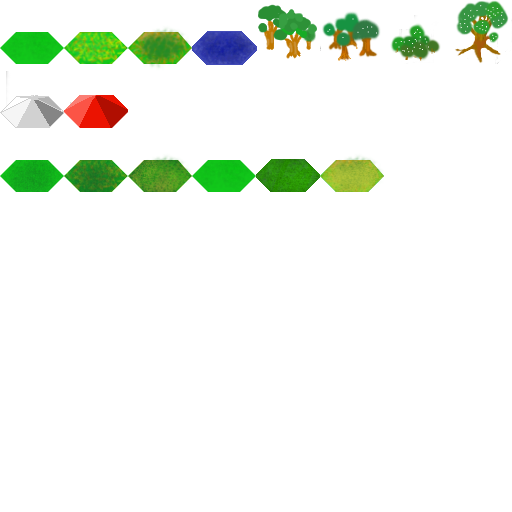
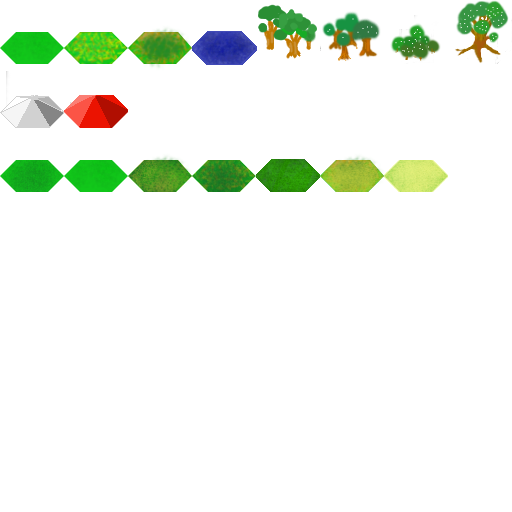
Perlin noise for grid gen

Changed region(s): [[0.75, 0.3125, 0.875, 0.375], [0.375, 0.3125, 0.5, 0.375], [0.125, 0.3125, 0.25, 0.375]]

diff --git a/perlin.cpp b/perlin.cpp
@@ -1,0 +1,131 @@
+#include "perlin.h"
+
+Perlin::Perlin()
+{
+	Init();
+	_Perlin = this;
+}
+
+Perlin * Perlin::thePerlin()  
+{ 
+    if(_Perlin == NULL)
+        new Perlin();
+
+    return _Perlin; 
+}
+
+Perlin * Perlin::_Perlin = NULL;
+
+void Perlin::Init()
+{
+	InitGradients();
+	InitPermutationTable();
+}
+
+Perlin::~Perlin()
+{
+	if(RandomGradients != NULL)		delete RandomGradients;
+	if(PermutationTable != NULL)	delete PermutationTable;
+
+	RandomGradients		= NULL;
+	PermutationTable	= NULL;
+}
+
+void Perlin::InitGradients()
+{
+	if(RandomGradients != NULL) delete RandomGradients;
+
+    RandomGradients = new std::vector<glm::mediump_vec3>(PERLIN_NUM_GRADIENTS);
+
+	for(int i=0; i<PERLIN_NUM_GRADIENTS; i++)
+	{
+        glm::vec3 P = randvec3(-1.0f, 1.0f);
+		
+        while(glm::length(P) > 1.0 || glm::length(P) == 0.0f)
+            P = randvec3(-1.0f, 1.0f);
+
+        (*RandomGradients)[i] =  glm::normalize(P);
+	}
+}
+
+void Perlin::InitPermutationTable()
+{
+	if(PermutationTable != NULL) delete PermutationTable;
+
+    PermutationTable = new std::vector<int>(PERLIN_NUM_GRADIENTS * 2);
+
+	for(int i=0; i<PERLIN_NUM_GRADIENTS; i++)
+		(*PermutationTable)[i] = i;
+
+	for(int i=0; i<PERLIN_NUM_GRADIENTS; i++)
+	{
+		int j = rand()%PERLIN_NUM_GRADIENTS;
+		int Tmp = (*PermutationTable)[i];
+		(*PermutationTable)[i] = (*PermutationTable)[j];
+		(*PermutationTable)[j] = Tmp;
+	}
+
+	for(int i=0; i<PERLIN_NUM_GRADIENTS; i++)
+		(*PermutationTable)[i + PERLIN_NUM_GRADIENTS] = (*PermutationTable)[i];
+}
+
+
+glm::mediump_vec3 Perlin::GetGradient(glm::ivec3 loc)
+{
+    int ijk[3];
+    for(int i=0; i<3; i++)
+		ijk[i] = (PERLIN_NUM_GRADIENTS + ((int)loc[i])) % PERLIN_NUM_GRADIENTS;
+
+	int DezeGradient =	(*PermutationTable)[
+							(*PermutationTable)[
+								(*PermutationTable)[
+									ijk[0]] +
+								ijk[1]] +
+						ijk[2]];
+
+    return (*RandomGradients)[DezeGradient];
+}
+
+
+float Perlin::GetIniqoQuilesNoise(glm::vec3 x)
+{
+	x *= 16.0f;
+    // grid
+    glm::vec3 p = glm::floor(x), w = glm::fract(x);
+
+    // quintic interpolant
+    glm::vec3 u = w * w * w * (w * (w * glm::vec3(6.0f - 15.0f))+glm::vec3(10.0f));
+
+    
+    // gradients
+    glm::vec3 ga = GetGradient(p + glm::vec3(0.0f, 0.0f, 0.0f));
+    glm::vec3 gb = GetGradient(p + glm::vec3(1.0f, 0.0f, 0.0f));
+    glm::vec3 gc = GetGradient(p + glm::vec3(0.0f, 1.0f, 0.0f));
+    glm::vec3 gd = GetGradient(p + glm::vec3(1.0f, 1.0f, 0.0f));
+    glm::vec3 ge = GetGradient(p + glm::vec3(0.0f, 0.0f, 1.0f));
+    glm::vec3 gf = GetGradient(p + glm::vec3(1.0f, 0.0f, 1.0f));
+    glm::vec3 gg = GetGradient(p + glm::vec3(0.0f, 1.0f, 1.0f));
+    glm::vec3 gh = GetGradient(p + glm::vec3(1.0f, 1.0f, 1.0f));
+    
+    // projections
+    float va = glm::dot(ga, w - glm::vec3(0.0f, 0.0f, 0.0f));
+    float vb = glm::dot(gb, w - glm::vec3(1.0f, 0.0f, 0.0f));
+    float vc = glm::dot(gc, w - glm::vec3(0.0f, 1.0f, 0.0f));
+    float vd = glm::dot(gd, w - glm::vec3(1.0f, 1.0f, 0.0f));
+    float ve = glm::dot(ge, w - glm::vec3(0.0f, 0.0f, 1.0f));
+    float vf = glm::dot(gf, w - glm::vec3(1.0f, 0.0f, 1.0f));
+    float vg = glm::dot(gg, w - glm::vec3(0.0f, 1.0f, 1.0f));
+    float vh = glm::dot(gh, w - glm::vec3(1.0f, 1.0f, 1.0f));
+	
+    // interpolation
+    float returnThis = va + 
+           u.x * (vb - va) +
+           u.y * (vc - va) +
+           u.z * (ve - va) +
+           u.x * u.y * (va-vb-vc+vd) +
+           u.y * u.z * (va-vc-ve+vg) +
+           u.z * u.x * (va-vb-ve+vf) +
+           u.x * u.y * u.z * (-va+vb+vc-vd+ve-vf-vg+vh);
+
+    return 0.5f + (0.5f * returnThis);
+}

diff --git a/commonfunctions.h b/commonfunctions.h
@@ -1,0 +1,27 @@
+#ifndef COMMONFUNCTIONS_H
+#define COMMONFUNCTIONS_H
+
+#include <stdlib.h>
+#include <time.h>
+#define GLM_FORCE_RADIANS
+#define GLM_FORCE_SWIZZLE
+#include <glm/glm.hpp>
+#include <algorithm>
+
+inline float randfloat(float min, float max) { return min+((((float)(rand()%RAND_MAX))/((float)RAND_MAX))* (max-min)); }
+
+inline glm::vec3 randcolor()                            { return glm::vec3(randfloat(0.0f, 1.0f), randfloat(0.0f, 1.0f), randfloat(0.0f, 1.0f));	}
+inline glm::vec4 randvec4(glm::vec4 min, glm::vec4 max) { return glm::vec4(randfloat(min.x, max.x), randfloat(min.y, max.y), randfloat(min.z, max.z), randfloat(min.w, max.w)); }
+inline glm::vec4 randvec4(float min, float max)         { return glm::vec4(randfloat(min, max), randfloat(min, max), randfloat(min, max), randfloat(min, max)); }
+inline glm::vec3 randvec3(float min, float max)         { return glm::vec3(randfloat(min, max), randfloat(min, max), randfloat(min, max)); }
+
+inline void InitRandSeed() { srand(time_t(NULL)); }
+
+inline float unisin(float ang) { return 0.5f + ( 0.5f * sinf(ang) ); }
+inline float unicos(float ang) { return 0.5f + ( 0.5f * cosf(ang) ); }
+
+inline glm::vec3 mixCol(glm::vec3 a, glm::vec3 b, float r) { r = std::min(1.0f, std::max(0.0f, r)); return ( a * (1.0f - r) ) + ( b * r ); }
+
+const float pi = 3.14159265359f;
+
+#endif // COMMONFUNCTIONS_H

diff --git a/welt.cpp b/welt.cpp
@@ -26,7 +26,7 @@ welt::welt(SDL_Surface * scherm) : _tegels(scherm), offsetX(0), offsetY(0)
 		_veld[x].resize(WELT_H);
 		
 		for(int y=0; y<WELT_H; y++)
-			_veld[x][y] = new weltVeld();
+			_veld[x][y] = new weltVeld(glm::vec3(float(x), float(y), 0));
 	}
 
 	for(int i=0; i<50; i++)		
@@ -40,7 +40,10 @@ int welt::yOri(lemPos p)
 
 void welt::draw()
 {
-	lemPos minBB(1 + (offsetX / WELT_X_OFFSET), 1 + 2 * (offsetY / TILEDIM)), maxBB(minBB.x + SCREEN_WIDTH - 2, minBB.y + SCREEN_HEIGHT - 2);
+	lemPos minBB(2 + (offsetX / WELT_X_OFFSET), 1 + 2 * (offsetY / TILEDIM));
+	minBB.x -= minBB.x % 2;
+
+	lemPos maxBB(minBB.x + SCREEN_WIDTH - 2, minBB.y + SCREEN_HEIGHT - 2);
 	//lemPos minBB(3, 3), maxBB(SCREEN_WIDTH / 2, SCREEN_HEIGHT / 2);
 	for(int veldOverlay = 0; veldOverlay < 2; veldOverlay++)	
 		for(int y=std::max(0, minBB.y); y < std::min(WELT_H, maxBB.y); y++)

diff --git a/weltveld.cpp b/weltveld.cpp
@@ -1,22 +1,36 @@
 #include "weltveld.h"
 #include "lemming.h"
 
-weltVeld::weltVeld()
+weltVeld::weltVeld(glm::vec3 p)
 {
 	lem 	= NULL;
 	overlay = LEEG;
 	domus	= NULL;
 	veld	= GRAS0;
+	pos	 	= p;
 
 	if(true)
 	{
-		veld = 16 + rand()%6;
+		int maxim = 6;
+		int deze = std::min(std::max(int(Perlin::thePerlin()->GetIniqoQuilesNoise(p * glm::vec3(0.012f, 0.01f, 1.0f))  * maxim), 0), maxim);
 		
+		veld = deze + 16;
+		if(deze >= 2 && deze < 5 && Perlin::thePerlin()->GetIniqoQuilesNoise(p * glm::vec3(0.00333f, 0.0056f, 0.1230f)) > 0.85f)
+			veld = WATER;
+		else if(deze < 3 && rand()%8 == 0)
+			overlay = 4 + rand()%4;
+		else if(deze > 5 && rand()%6 == 0)
+			domus = new huis();
+		
+
+
 	/*	if(rand()%6 == 0)			veld = WATER;
 		else if(rand()%7 == 0)		overlay = 4 + (rand()%4);
 		else 
 		if(rand()%7 == 0)		
 		domus = new huis();*/
+
+		
 	}
 }
 

diff --git a/perlin.h b/perlin.h
@@ -1,0 +1,33 @@
+#pragma once
+
+#include <vector>
+#include <list>
+#include <algorithm>
+#include "commonfunctions.h"
+
+#define PERLIN_NUM_GRADIENTS 1024
+
+class Perlin
+{
+public:
+                Perlin();
+				~Perlin();
+	void		Init();
+		
+    glm::mediump_vec3   GetGradient(glm::ivec3 loc);
+    float 		GetIniqoQuilesNoise(glm::vec3 x);
+
+	static Perlin * thePerlin();
+	static Perlin * _Perlin;
+	
+private:
+	void		InitGradients();
+	void		InitPermutationTable();
+    int			FoldingFunction(glm::ivec3 ijk) { return (*PermutationTable)[(*PermutationTable)[(*PermutationTable)[ijk[0]] + ijk[1]] + ijk[2]]; }
+
+    std::vector<glm::mediump_vec3> *RandomGradients = NULL;
+    std::vector<int>				*PermutationTable = NULL;
+    
+};
+
+

diff --git a/weltveld.h b/weltveld.h
@@ -4,13 +4,14 @@
 #include "tiles.h"
 #include "lempos.h"
 #include "huis.h"
+#include "perlin.h"
 
 class lemming;
 
 class weltVeld
 {
 public:
-	weltVeld();
+	weltVeld(glm::vec3 p);
 	
 	bool free();
 	bool canGo(lemDir d);
@@ -20,6 +21,7 @@ public:
 	tiletype 	overlay;
 	huis * 		domus;
 	bool 		valid = false;
+	glm::vec3 	pos;
 };
 
 
